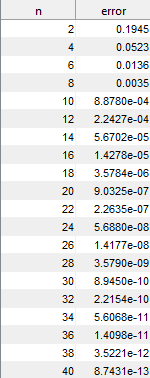
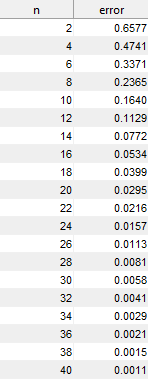
Started fixing chapter 4

Changed region(s): [[0.0, 0.0, 1.0, 1.0]]

diff --git a/cap4/4_7.m b/cap4/4_7.m
@@ -1,38 +1,31 @@
-syms x
-runge = 1/(1+x^2);
+% tabella di comodo per mostrare le stime dell'errore
+Table = cell2table(cell(0,2));
+Table.Properties.VariableNames = {'n' 'error'};
+
+f = @(x) 1./(1 + x.^2);
 a = -6;
 b = 6;
 
-% tabella di comodo per mostrare le stime dell'errore
-Table = cell2table(cell(0,2));
-Table.Properties.VariableNames = {'x' 'error'};
-
 n = 2;
-while n<=40
-    xi = ceby(n, a, b);
-    fi = zeros(length(xi), 1);
+while n <= 40
 
-    for i = 1:length(xi)
-        fi(i) = subs(runge, xi(i));
-    end
-
+    xi = ceby(n, a, b); % ascisse di chebyshev
+    fi = f(xi); % valutazioni fun di runge
     p = @(x) lagrange(xi, fi, x);
 
-    fplot(runge, [a, b])
+    % GRAFICO
+    fplot(f, [a, b]) % per riferimento
     hold on
     fplot(p, [a, b])
-    plot(xi, fi, 'r*')
+    plot(xi, fi, 'r*') % evidenzio punti interp
     hold off
     print('-dpng', strcat(num2str(n), '.png'));
 
-    d = abs(diff(runge, n + 1));
-    % non ci sono function predefinite per trovare il massimo
-    % uso una scritta da me, anche se terribilmente inefficiente
-    [x, fnorm] = maximum(d, a, b, 0.01);
-    error = fnorm / (factorial(n+1) * 2^n);
-
-    iteration = {n, double(error)};
-    Table = [Table; iteration];
+    % STIMA DELL'ERRORE
+    x = linspace(a, b, 100001);
+    e = norm(f(x) - p(x), inf);
+    record = {n, e};
+    Table = [Table; record];
 
     n = n + 2;
 end
@@ -40,14 +33,3 @@ end
 % mostra la tabella
 uitable('Data',Table{:,:},'ColumnName',Table.Properties.VariableNames,...
     'RowName',Table.Properties.RowNames,'Units', 'Normalized', 'Position',[0, 0, 1, 1]);
-
-function [x, max] = maximum(f, a, b, step)
-    max = -Inf;
-    x = 0;
-    for i = a:step:b
-        if subs(f, i) > max
-            max = subs(f, i);
-            x = i;
-        end
-    end
-end

diff --git a/cap4/4_1.m b/cap4/4_1.m
@@ -1,7 +1,6 @@
 % esempio con f(x) = pi^x
 xi = [0,1,2];
 fi = [1, 3.14, 9.87];
-
 y = lagrange(xi, fi, 1.5);
 
 %
@@ -16,17 +15,18 @@ function y = lagrange(xi, fi, x)
     if length(xi) ~= length(fi)
         error('xi e fi hanno lunghezza diversa!')
     end
-    y = 0;
+    y = 0.;
     for i = 1:length(xi)
-        y = y + fi(i)*l_k_n(x, xi, i);
+        y = y + fi(i) * l_k_n(x, xi, i);
     end
 end
 
 function lkn = l_k_n(x, xi, k)
-    lkn = 1;
+    lkn = zeros(length(x), 1)' + 1;
     for i = 1:length(xi)
         if i ~= k
-            lkn = lkn * (x-xi(i))/(xi(k)-xi(i));
+            pterm = (x - xi(i)) / (xi(k) - xi(i));
+            lkn = prod([lkn; pterm], 1);
         end
     end
 end

diff --git a/cap4/4_7.tex b/cap4/4_7.tex
@@ -49,10 +49,10 @@
 
 \noindent Riguardo alla stima dell'errore commesso, ricordando che, grazie alla scelta dei nodi di Chebyshev come punti di interpolazione, per funzioni sufficientemente regolari abbiamo:
 \[
-||e|| = \frac{||f^{(n+1)}||}{(n+1)!2^n}
+||e|| \leq \frac{||f^{(n+1)}||}{(n+1)!2^n}
 \]
 
-\noindent Sono state calcolate le stime dell'errore mostrate nella seguente tabella:
+\noindent Tuttavia, calcolare la $(n+1)-esima$ derivata risulterebbe molto dispendioso in termini computazionali. Quindi,..... SCRIVI QUALCOSA
 
 \begin{center}
 	\includegraphics[scale=0.7]{cap4/4_7/4_7_error.png}
